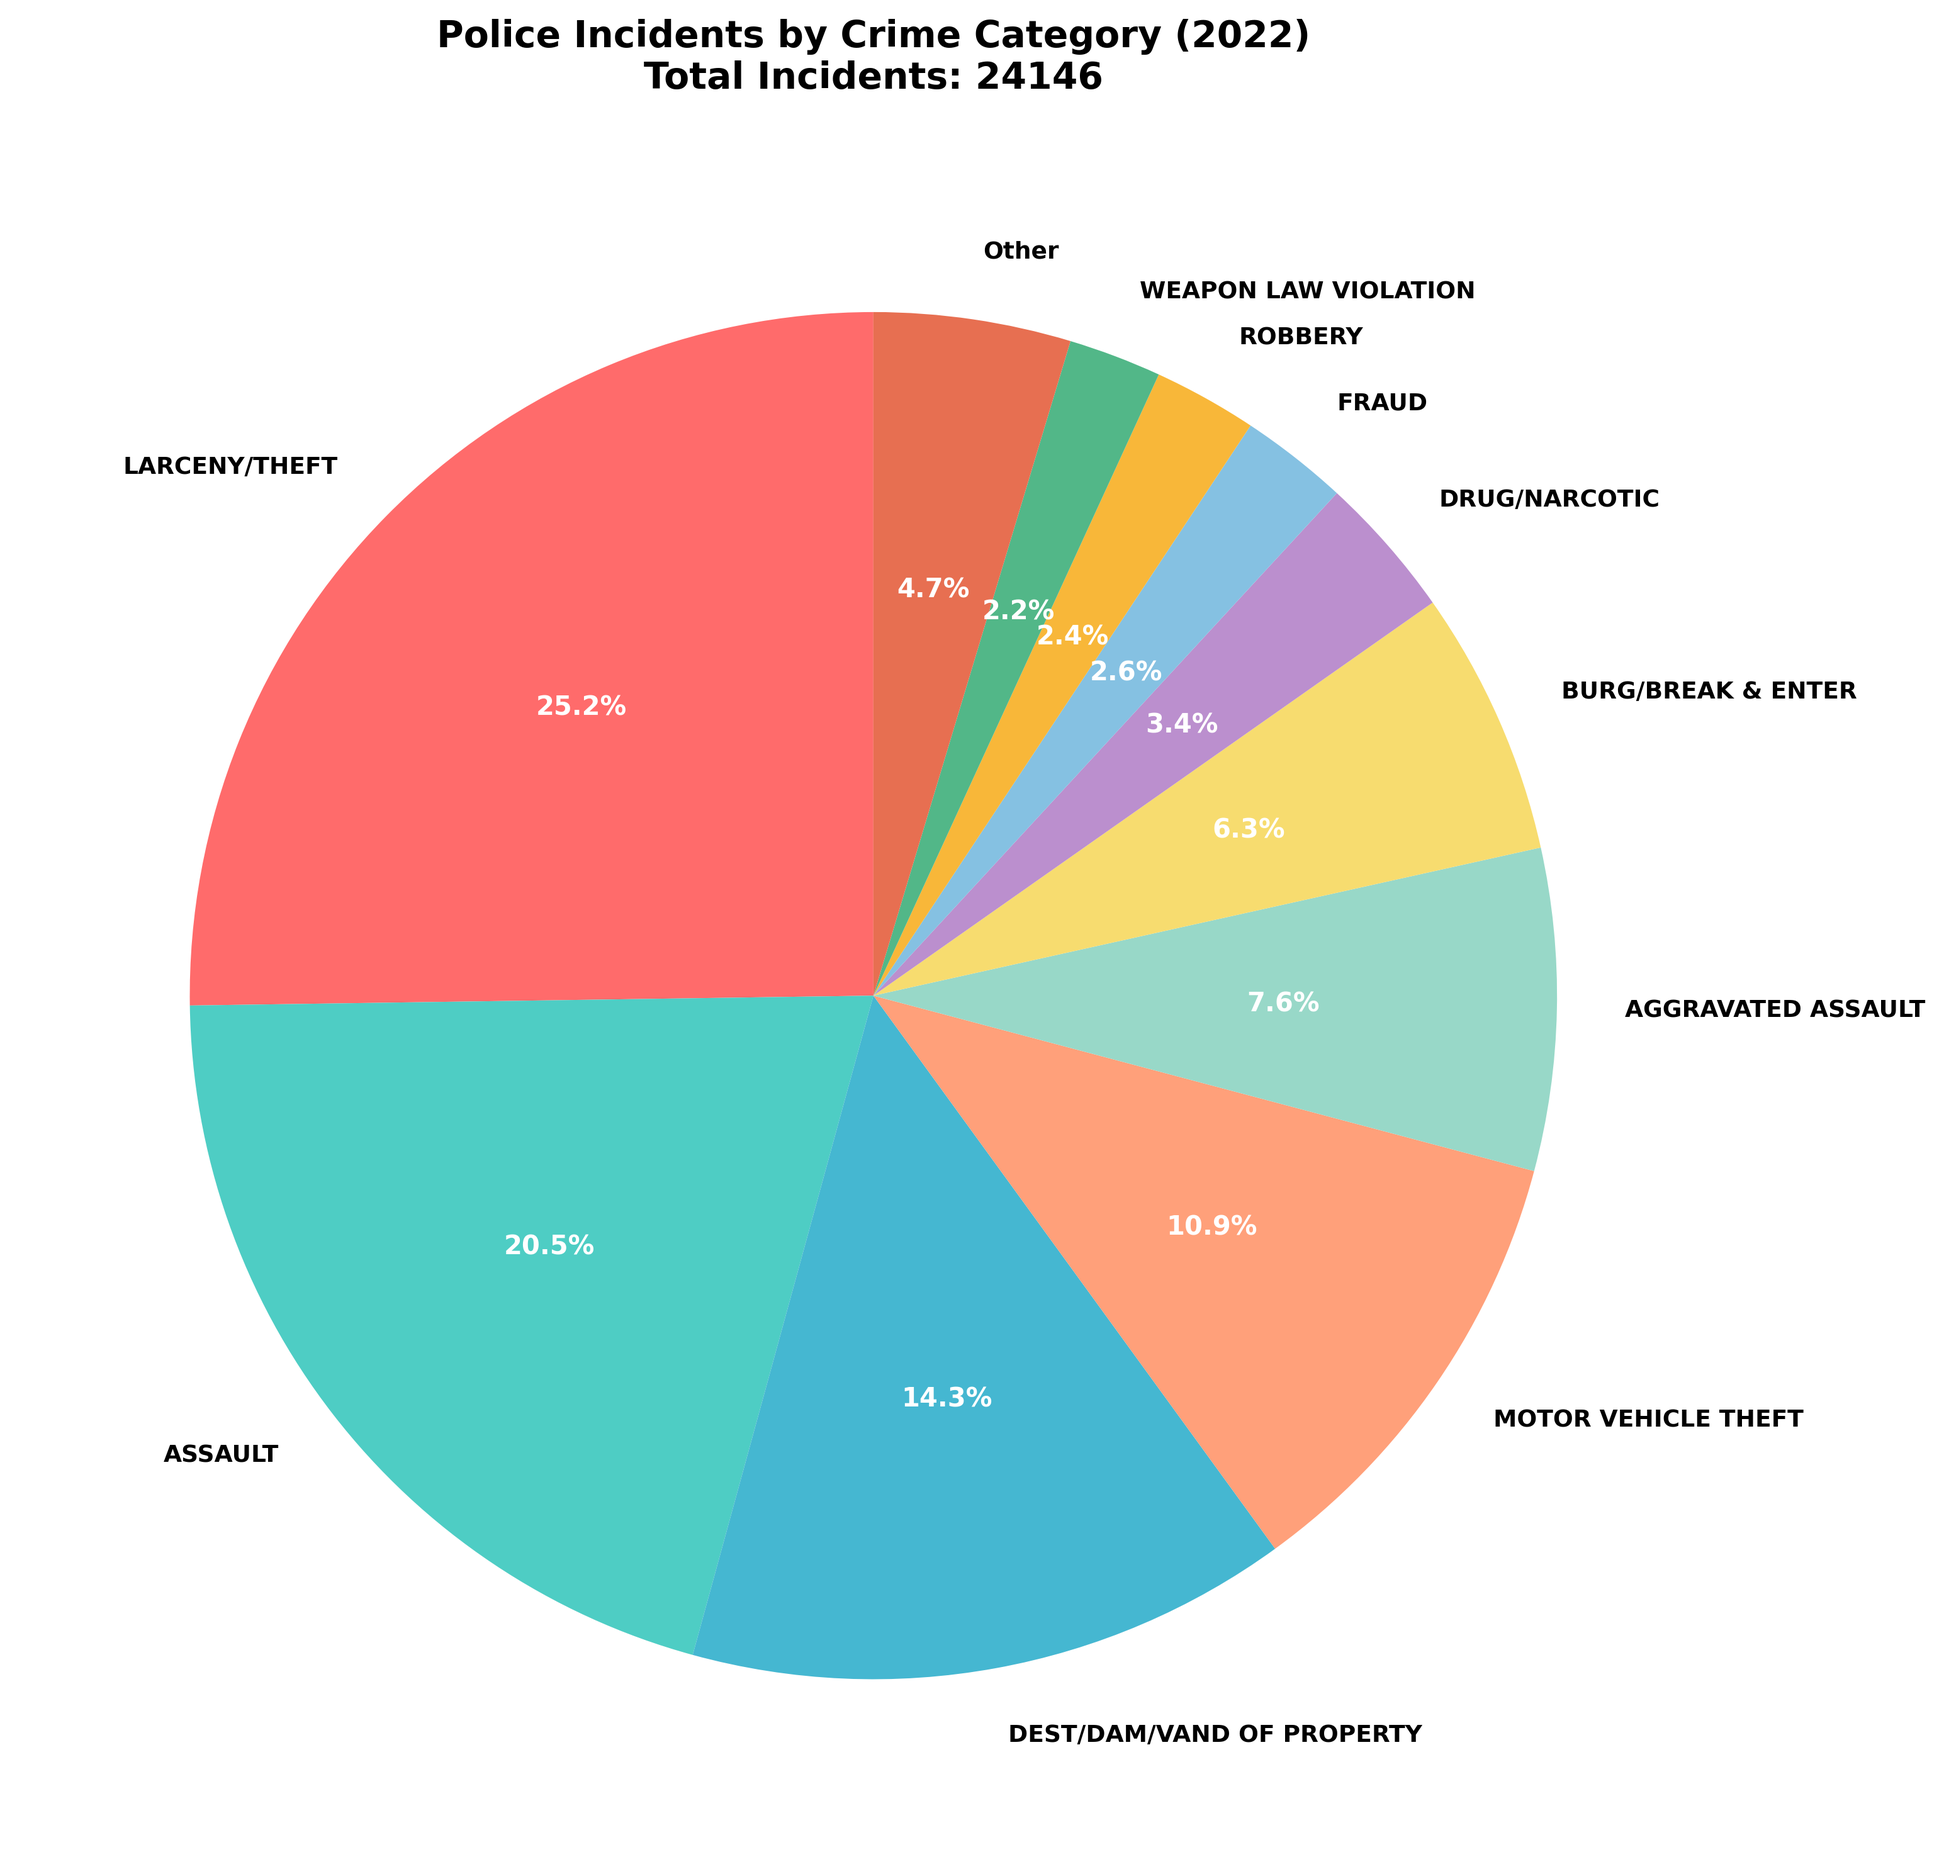
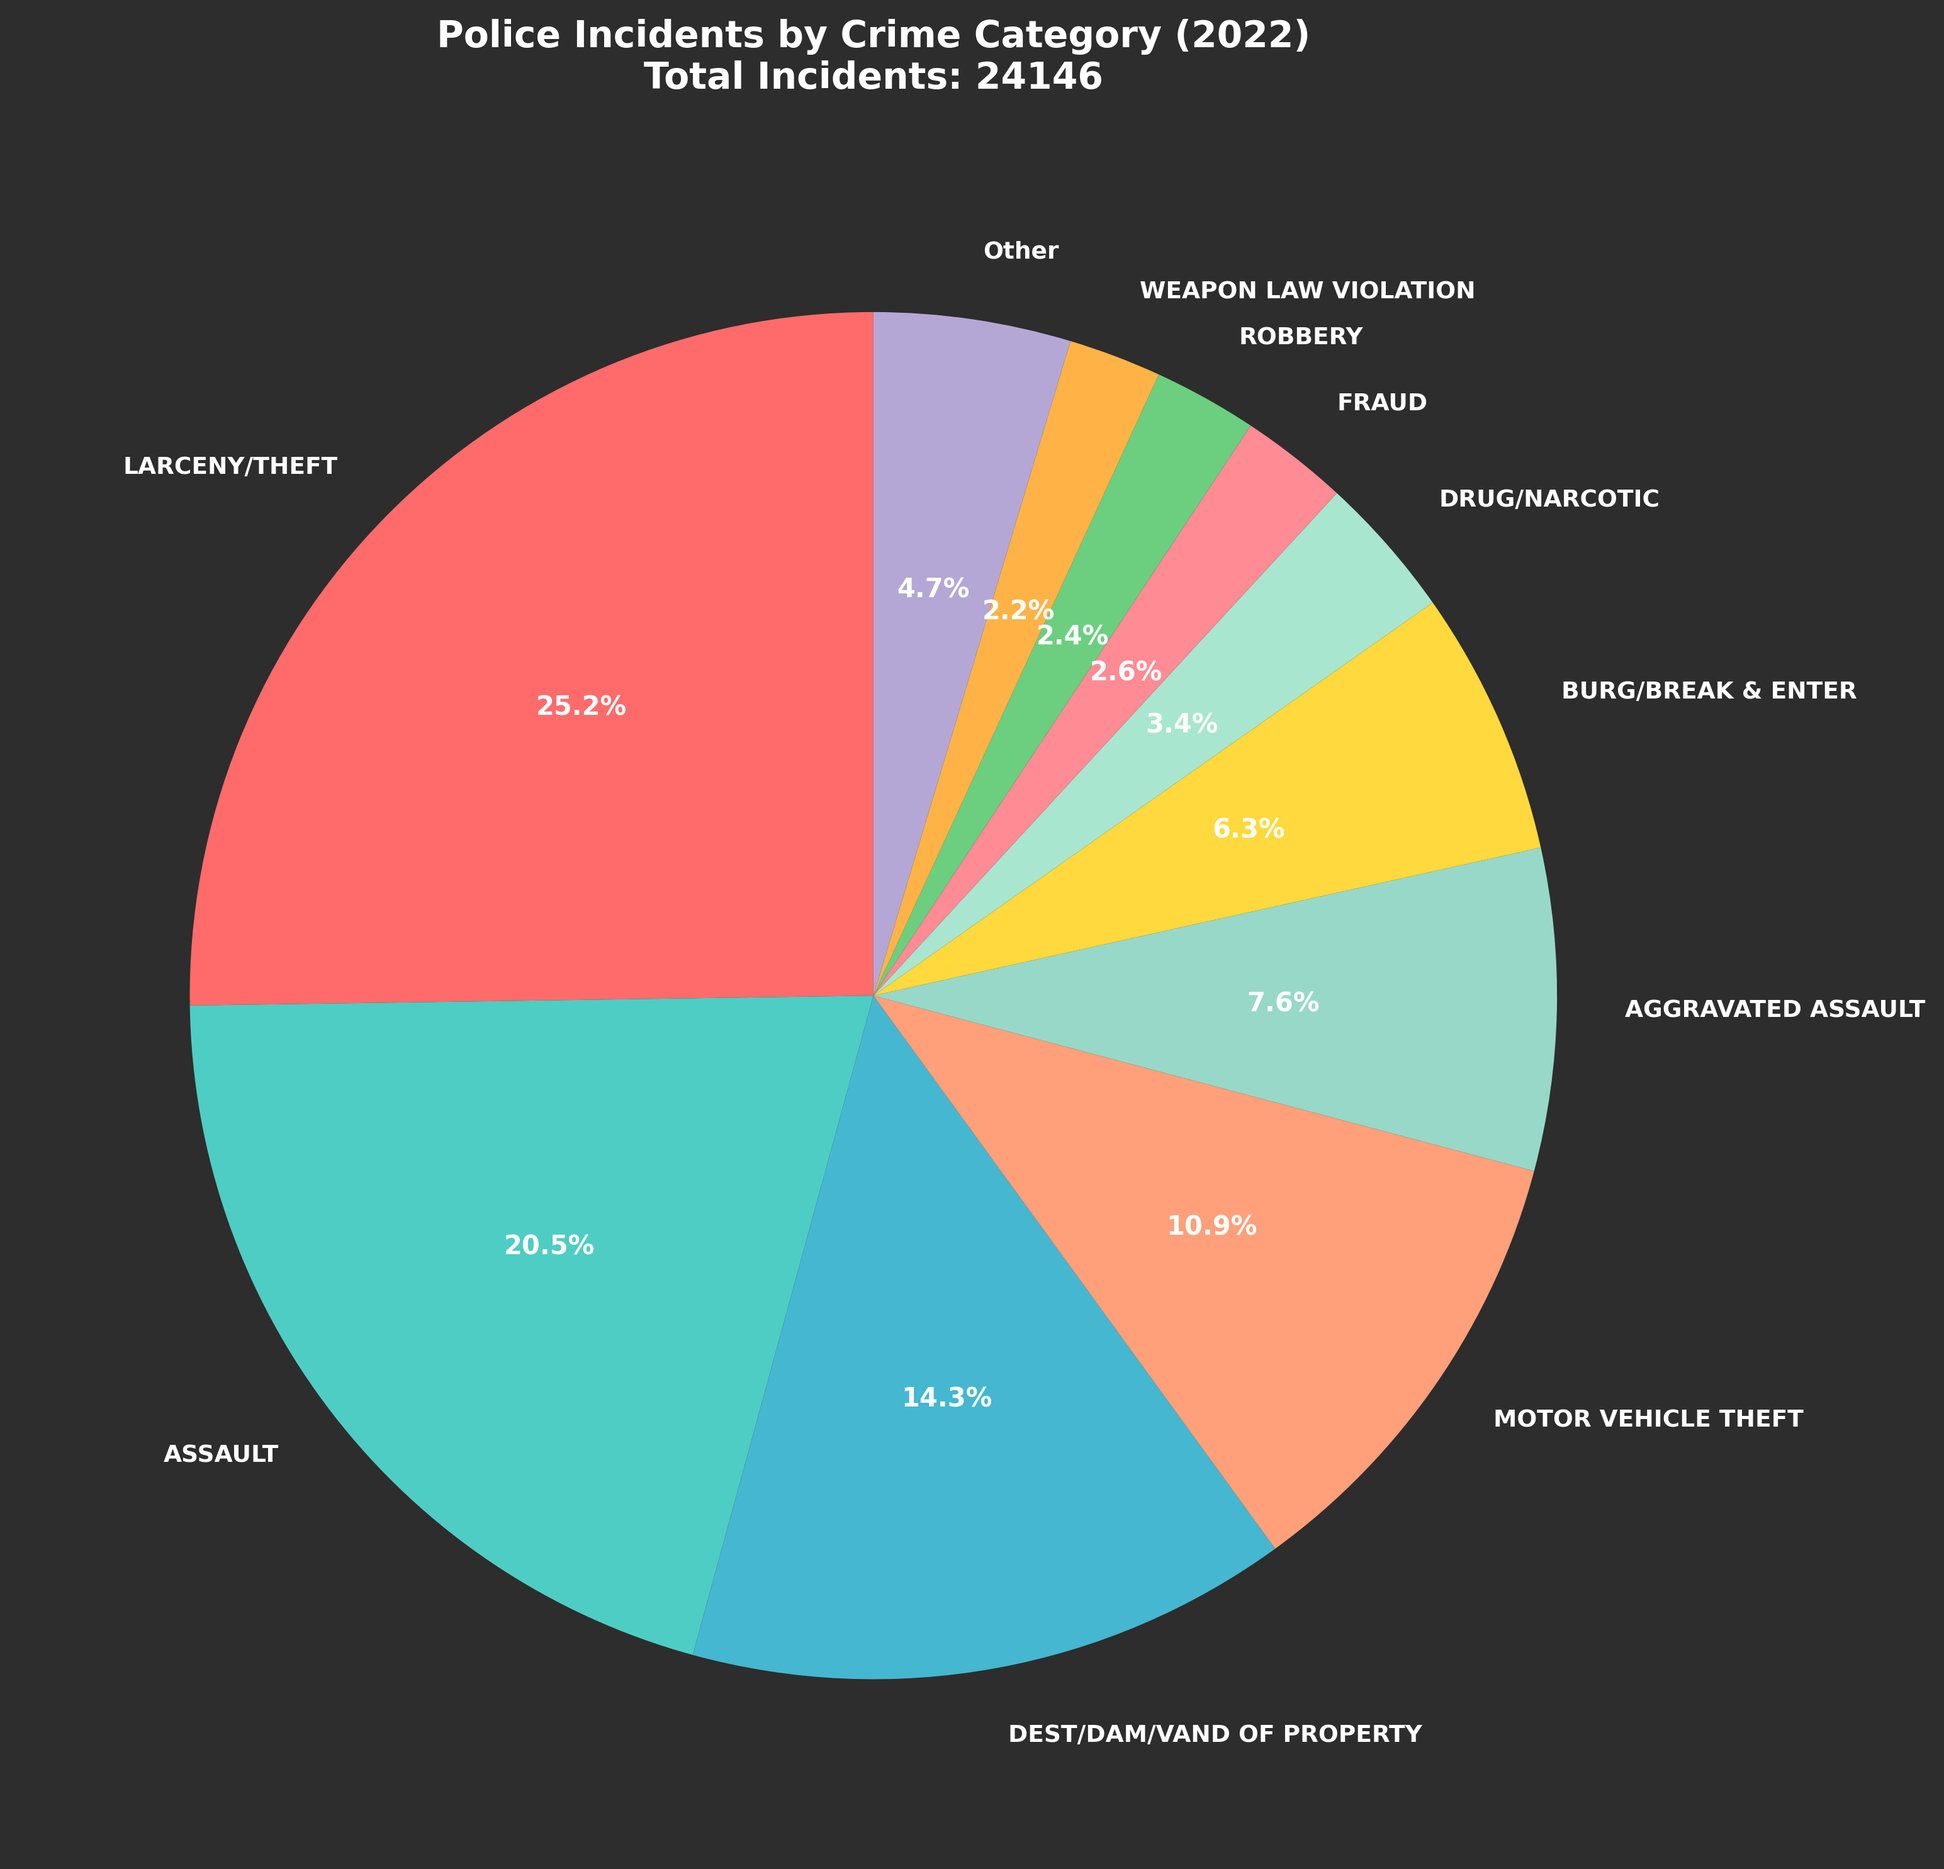
algo29

diff --git a/algo_guy/scripts/pie.py b/algo_guy/scripts/pie.py
@@ -7,18 +7,12 @@ import numpy as np
 
 # Directories
 police_dir = 'C:/Users/nafla/Documents/memhack25/algo_guy/data/hoods_Police'
+service_requests_dir = 'C:/Users/nafla/Documents/memhack25/algo_guy/data/hoods'
 
 # Neighborhoods
 neighborhoods = ['Egypt', 'Frayser', 'Orange_Mound', 'Parkway_Village']
 
-# Data provided
-code_enforcement_data = {
-    'Egypt': 83,
-    'Frayser': 89,
-    'Orange_Mound': 91,
-    'Parkway_Village': 216
-}
-
+# Data provided for evictions only
 evictions_data = {
     'Egypt': 1848,
     'Frayser': 1314,
@@ -32,6 +26,49 @@ for month in range(1, 13):
     months_2022.append(f"2022-{month:02d}")
 
 print("=" * 80)
+print("READING SERVICE REQUEST DATA BY CATEGORY (ALL YEARS)")
+print("=" * 80)
+
+# Store service request data by category across all neighborhoods
+service_category_totals = defaultdict(int)
+
+# Get all CSV files in the hoods directory
+csv_files = [f for f in os.listdir(service_requests_dir) if f.endswith('.csv')]
+
+print(f"Found {len(csv_files)} CSV files in {service_requests_dir}")
+
+# Read ALL CSV files
+for filename in csv_files:
+    filepath = os.path.join(service_requests_dir, filename)
+    
+    print(f"Reading {filename}...")
+    
+    try:
+        with open(filepath, 'r', encoding='utf-8') as file:
+            reader = csv.DictReader(file, delimiter=';')
+            
+            count = 0
+            for row in reader:
+                try:
+                    # Count ALL records, not just 2022
+                    category = row['category'].strip()
+                    service_category_totals[category] += 1
+                    count += 1
+                except KeyError as e:
+                    # Skip rows with missing category
+                    continue
+        
+        print(f"  ✓ Loaded {count} records")
+        
+    except FileNotFoundError:
+        print(f"  ✗ File not found: {filepath}")
+    except Exception as e:
+        print(f"  ✗ Error reading file: {e}")
+
+print(f"\n✓ Found {len(service_category_totals)} service request categories")
+print(f"✓ Total service requests: {sum(service_category_totals.values())}")
+
+print("\n" + "=" * 80)
 print("READING POLICE DATA BY CATEGORY (2022)")
 print("=" * 80)
 
@@ -68,70 +105,93 @@ print("\n" + "=" * 80)
 print("CREATING PIE CHARTS")
 print("=" * 80)
 
-# Color schemes
-colors_neighborhoods = ['#ff9999', '#66b3ff', '#99ff99', '#ffcc99']
+# Color schemes - vibrant and professional for dark grey background
+colors_neighborhoods = ['#FF6B6B', '#4ECDC4', '#95E1D3', '#F38181']  # Coral Red, Teal, Mint, Rose
 
-# For police chart - use distinct, vibrant colors that work on dark backgrounds
-# Custom color palette with high contrast
+# For police chart - vibrant modern colors
 colors_crimes = [
-    '#FF6B6B',  # Red
+    '#FF6B6B',  # Coral Red
     '#4ECDC4',  # Teal
-    '#45B7D1',  # Blue
+    '#45B7D1',  # Sky Blue
     '#FFA07A',  # Light Salmon
     '#98D8C8',  # Mint
-    '#F7DC6F',  # Yellow
-    '#BB8FCE',  # Purple
-    '#85C1E2',  # Sky Blue
-    '#F8B739',  # Orange
-    '#52B788',  # Green
-    '#E76F51',  # Burnt Orange
-    '#A8DADC',  # Light Blue
-    '#F1C0E8',  # Pink
-    '#CFBAF0',  # Lavender
-    '#90E0EF'   # Cyan
+    '#FFD93D',  # Golden Yellow
+    '#A8E6CF',  # Pastel Green
+    '#FF8B94',  # Pink
+    '#6BCF7F',  # Light Green
+    '#FFB347',  # Pastel Orange
+    '#B4A7D6',  # Lavender
+    '#7FCDCD',  # Aqua
+    '#FDCB6E',  # Warm Yellow
+    '#6C5CE7',  # Purple
+    '#74B9FF'   # Light Blue
 ]
 
-# 1. Code Enforcement Pie Chart
-print("Creating Code Enforcement pie chart...")
+# 1. Code Enforcement (Service Requests) by Category Pie Chart
+print("Creating Service Requests by Category pie chart...")
+
+# Group into three categories: Weeds, Inspection-Junky Yards, Other
+grouped_categories = {
+    'Weeds': 0,
+    'Inspection-Junky Yard': 0,
+    'Other': 0
+}
+
+for category, count in service_category_totals.items():
+    if 'Weed' in category or 'weed' in category.lower():
+        grouped_categories['Weeds'] += count
+    elif 'Junky' in category or 'junky' in category.lower():
+        grouped_categories['Inspection-Junky Yard'] += count
+    else:
+        grouped_categories['Other'] += count
+
+# Prepare data for pie chart
+sr_categories = list(grouped_categories.keys())
+sr_values = list(grouped_categories.values())
+sr_total = sum(sr_values)
+
+# Use just 3 colors from our palette
+colors_service = [colors_crimes[0], colors_crimes[1], colors_crimes[2]]
+
 fig, ax = plt.subplots(figsize=(10, 8))
+fig.patch.set_facecolor('#2d2d2d')  # Grey background
+ax.set_facecolor('#2d2d2d')
 
-neighborhoods_display = [n.replace('_', ' ') for n in neighborhoods]
-ce_values = [code_enforcement_data[n] for n in neighborhoods]
-ce_total = sum(ce_values)
-ce_percentages = [(v/ce_total)*100 for v in ce_values]
+wedges, texts, autotexts = ax.pie(sr_values, labels=sr_categories, autopct='%1.1f%%',
+                                    startangle=90, colors=colors_service,
+                                    textprops={'fontsize': 11, 'weight': 'bold', 'color': 'white'})
 
-wedges, texts, autotexts = ax.pie(ce_values, labels=neighborhoods_display, autopct='%1.1f%%',
-                                    startangle=90, colors=colors_neighborhoods,
-                                    textprops={'fontsize': 11, 'weight': 'bold'})
-
-ax.set_title('Code Enforcement Service Requests by Neighborhood (2022)\nTotal: ' + str(ce_total),
-             fontsize=14, fontweight='bold', pad=20)
+ax.set_title('Service Requests by Category\nTotal: ' + str(sr_total),
+             fontsize=14, fontweight='bold', pad=20, color='white')
 
 # Make percentage text larger and white
 for autotext in autotexts:
     autotext.set_color('white')
-    autotext.set_fontsize(12)
+    autotext.set_fontsize(10)
     autotext.set_weight('bold')
 
 plt.tight_layout()
-plt.savefig('code_enforcement_pie_chart.png', dpi=300, bbox_inches='tight')
-print("  ✓ Saved: code_enforcement_pie_chart.png")
+plt.savefig('service_requests_by_category_pie_chart.png', dpi=300, bbox_inches='tight')
+print("  ✓ Saved: service_requests_by_category_pie_chart.png")
 plt.close()
 
 # 2. Evictions Pie Chart
 print("Creating Evictions pie chart...")
 fig, ax = plt.subplots(figsize=(10, 8))
+fig.patch.set_facecolor('#2d2d2d')  # Grey background
+ax.set_facecolor('#2d2d2d')
 
+neighborhoods_display = [n.replace('_', ' ') for n in neighborhoods]
 ev_values = [evictions_data[n] for n in neighborhoods]
 ev_total = sum(ev_values)
 ev_percentages = [(v/ev_total)*100 for v in ev_values]
 
 wedges, texts, autotexts = ax.pie(ev_values, labels=neighborhoods_display, autopct='%1.1f%%',
                                     startangle=90, colors=colors_neighborhoods,
-                                    textprops={'fontsize': 11, 'weight': 'bold'})
+                                    textprops={'fontsize': 11, 'weight': 'bold', 'color': 'white'})
 
 ax.set_title('Eviction Filings by Neighborhood (2022)\nTotal: ' + str(ev_total),
-             fontsize=14, fontweight='bold', pad=20)
+             fontsize=14, fontweight='bold', pad=20, color='white')
 
 # Make percentage text larger and white
 for autotext in autotexts:
@@ -165,6 +225,8 @@ else:
 total_crimes = sum(values)
 
 fig, ax = plt.subplots(figsize=(12, 10))
+fig.patch.set_facecolor('#2d2d2d')  # Grey background
+ax.set_facecolor('#2d2d2d')
 
 # Ensure we have enough colors (cycle if needed)
 colors_to_use = colors_crimes * (len(values) // len(colors_crimes) + 1)
@@ -172,10 +234,10 @@ colors_to_use = colors_to_use[:len(values)]
 
 wedges, texts, autotexts = ax.pie(values, labels=categories, autopct='%1.1f%%',
                                     startangle=90, colors=colors_to_use,
-                                    textprops={'fontsize': 9, 'weight': 'bold'})
+                                    textprops={'fontsize': 9, 'weight': 'bold', 'color': 'white'})
 
 ax.set_title('Police Incidents by Crime Category (2022)\nTotal Incidents: ' + str(total_crimes),
-             fontsize=14, fontweight='bold', pad=20)
+             fontsize=14, fontweight='bold', pad=20, color='white')
 
 # Make percentage text more visible
 for autotext in autotexts:
@@ -193,13 +255,14 @@ print("\n" + "=" * 80)
 print("STATISTICS SUMMARY")
 print("=" * 80)
 
-print("\nCODE ENFORCEMENT (Service Requests):")
-print(f"{'Neighborhood':<20} {'Count':<10} {'Percentage'}")
-print("-" * 50)
-for i, neighborhood in enumerate(neighborhoods):
-    name_display = neighborhood.replace('_', ' ')
-    print(f"{name_display:<20} {ce_values[i]:<10} {ce_percentages[i]:.1f}%")
-print(f"{'TOTAL':<20} {ce_total}")
+print("\nSERVICE REQUESTS BY CATEGORY:")
+print(f"{'Category':<30} {'Count':<10} {'Percentage'}")
+print("-" * 60)
+for category in sr_categories:
+    count = grouped_categories[category]
+    percentage = (count/sr_total)*100
+    print(f"{category:<30} {count:<10} {percentage:.1f}%")
+print(f"{'TOTAL':<30} {sr_total}")
 
 print("\nEVICTIONS:")
 print(f"{'Neighborhood':<20} {'Count':<10} {'Percentage'}")
@@ -223,6 +286,6 @@ print(f"{'TOTAL':<35} {total_crimes}")
 
 print("\n✓ All pie charts created successfully!")
 print("\nFiles saved:")
-print("  - code_enforcement_pie_chart.png")
+print("  - service_requests_by_category_pie_chart.png")
 print("  - evictions_pie_chart.png")
 print("  - police_crime_categories_pie_chart.png")
